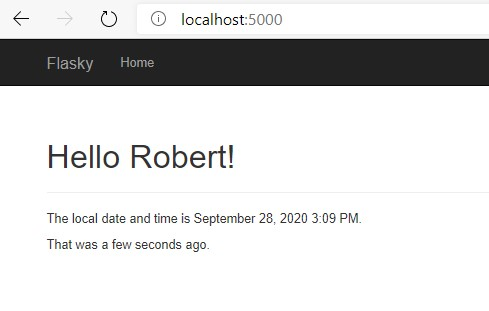
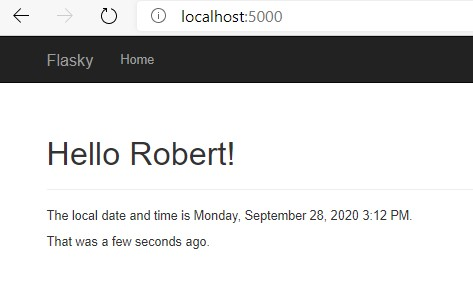
Part 1 Fixed

diff --git a/templates/index.html b/templates/index.html
@@ -6,6 +6,6 @@
 <div class="page-header">
     <h1>Hello Robert!</h1>
 </div>
-<p>The local date and time is {{ moment(current_time).format('LLL') }}.</p>
+<p>The local date and time is {{ moment(current_time).format('LLLL') }}.</p>
 <p>That was {{ moment(current_time).fromNow(refresh=True) }}.</p>
 {% endblock %}
